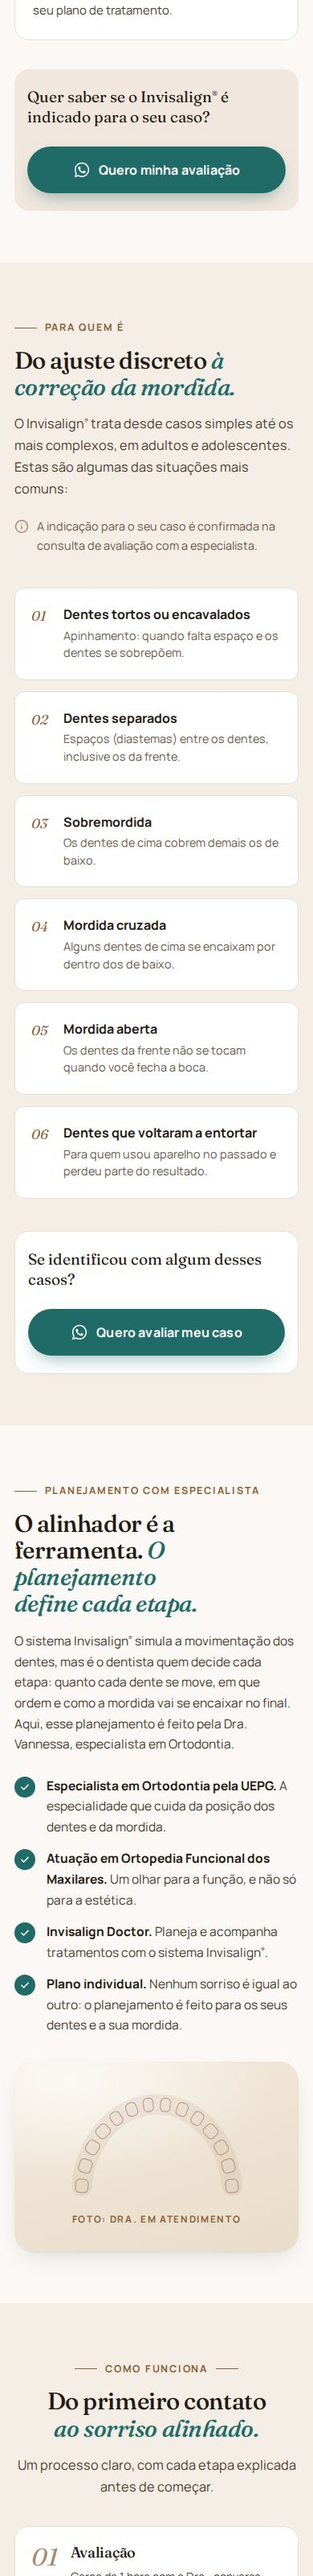
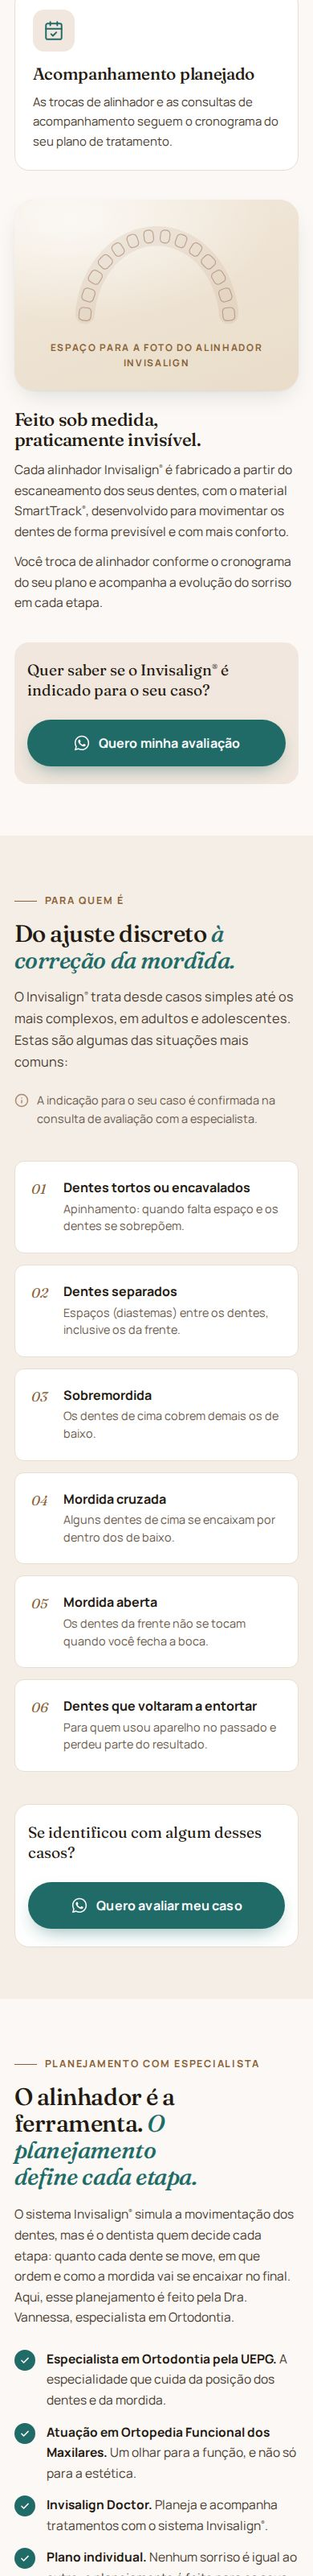
Reserve space for Invisalign Doctor seal and product photo
Claude-Session: https://claude.ai/code/session_01U1nEfuHnYZHZHo8qhsU69d

diff --git a/landing-invisalign-vannessa/index.html b/landing-invisalign-vannessa/index.html
@@ -36,6 +36,9 @@ window.LP_CONFIG = {
     heroDra: 'imagens/dra-vannessa-hero.jpg',       // foto principal (vertical 4:5, 1000x1250px)
     sobreDra: 'imagens/dra-vannessa-retrato.jpg',   // retrato para a seção "Quem é" (vertical 4:5)
     atendimento: '', // Dra. atendendo / mostrando o alinhador (horizontal 3:2)
+    // Material oficial da Align (baixar no Invisalign Doctor Site > área de marketing):
+    seloInvisalign: '',   // selo "Invisalign Doctor" em PNG sem fundo (aparece no topo e na seção "Quem é")
+    produtoInvisalign: '', // foto do alinhador Invisalign (horizontal 3:2, aparece na seção "Por que Invisalign")
     clinica: [       // fotos da clínica (horizontal 3:2). Apague ou acrescente linhas.
       // 'https://static.wixstatic.com/media/...jpg',
     ]
@@ -432,6 +435,20 @@ window.LP_CONFIG = {
   .indic .inline-cta{grid-column:1/-1;margin-top:8px}
   .about .hero-ctas{margin-top:30px}
 
+  /* ---------- Selo Invisalign Doctor e foto do produto ---------- */
+  .selo{display:flex;align-items:center;gap:14px;margin-top:26px}
+  .selo .selo-img{width:150px;height:64px;flex:none;display:grid;place-items:center;border-radius:10px;
+    border:1.5px dashed var(--accent);color:var(--accent-ink);font-size:.62rem;font-weight:700;letter-spacing:.12em;text-transform:uppercase;text-align:center;padding:6px}
+  .selo .selo-img img{max-width:100%;max-height:100%;object-fit:contain;display:block}
+  .selo .selo-img.pronto{border:0;padding:0}
+  .selo span{font-size:.84rem;color:var(--muted);max-width:260px;line-height:1.45}
+  .produto{display:grid;grid-template-columns:1fr 1fr;gap:clamp(24px,4vw,56px);align-items:center;margin-top:clamp(36px,5vw,56px)}
+  .produto .frame{aspect-ratio:3/2;border-radius:24px}
+  .produto h3{font-size:clamp(1.4rem,2.4vw,1.9rem)}
+  .produto p{margin-top:12px;color:var(--ink-soft)}
+  @media (max-width:900px){.produto{grid-template-columns:1fr}.produto .frame{max-width:560px}}
+  @media (max-width:640px){.selo{flex-direction:column;align-items:flex-start}}
+
   /* ---------- Botão flutuante ---------- */
   .wa-float{
     position:fixed;right:18px;bottom:18px;z-index:50;width:60px;height:60px;border-radius:50%;
@@ -599,6 +616,10 @@ window.LP_CONFIG = {
         <li><svg aria-hidden="true"><use href="#i-check"/></svg>Invisalign Doctor</li>
         <li><svg aria-hidden="true"><use href="#i-check"/></svg>Planejamento digital 3D</li>
       </ul>
+      <div class="selo">
+        <div class="selo-img" data-selo>Espaço para o selo Invisalign Doctor</div>
+        <span>A Dra. Vannessa é Invisalign Doctor, habilitada a planejar e conduzir tratamentos com Invisalign<sup>®</sup>.</span>
+      </div>
     </div>
 
     <div class="hero-media reveal">
@@ -666,6 +687,16 @@ window.LP_CONFIG = {
         <h3>Acompanhamento planejado</h3>
         <p>As trocas de alinhador e as consultas de acompanhamento seguem o cronograma do seu plano de tratamento.</p>
       </article>
+    </div>
+    <div class="produto">
+      <div class="frame reveal" data-foto="produtoInvisalign" data-alt="Alinhador Invisalign">
+        <div class="ph"><svg viewBox="0 0 400 260" aria-hidden="true"><use href="#i-arch"/></svg><small>Espaço para a foto do alinhador Invisalign</small></div>
+      </div>
+      <div class="reveal">
+        <h3>Feito sob medida, praticamente invisível.</h3>
+        <p>Cada alinhador Invisalign<sup>®</sup> é fabricado a partir do escaneamento dos seus dentes, com o material SmartTrack<sup>®</sup>, desenvolvido para movimentar os dentes de forma previsível e com mais conforto.</p>
+        <p>Você troca de alinhador conforme o cronograma do seu plano e acompanha a evolução do sorriso em cada etapa.</p>
+      </div>
     </div>
     <div class="inline-cta reveal">
       <p>Quer saber se o Invisalign<sup>®</sup> é indicado para o seu caso?</p>
@@ -815,6 +846,10 @@ window.LP_CONFIG = {
         <div class="fact"><small>Especialização</small><b>Ortodontia · UEPG</b></div>
         <div class="fact"><small>Área de atuação</small><b>Ortopedia Funcional dos Maxilares</b></div>
         <div class="fact"><small>Alinhadores</small><b>Invisalign Doctor</b></div>
+      </div>
+      <div class="selo">
+        <div class="selo-img" data-selo>Espaço para o selo Invisalign Doctor</div>
+        <span>Selo oficial de Invisalign Doctor, fornecido pela Align Technology.</span>
       </div>
       <div class="hero-ctas">
         <a class="btn btn-primary" data-wa="dra" href="https://wa.me/554130726994?text=Ol%C3%A1%20Tenho%20interesse%20em%20saber%20mais%20sobre%20Invisalign.%20*N%C3%83O%20APAGUE%20ESSA%20MENSAGEM%20VOC%C3%8A%20TEM%20PREFER%C3%8ANCIA*" target="_blank" rel="noopener">
@@ -983,7 +1018,7 @@ window.LP_CONFIG = {
       </div>
     </div>
     <hr>
-    <p class="tm">Invisalign<sup>®</sup>, ClinCheck<sup>®</sup> e os respectivos logotipos são marcas registradas da Align Technology, Inc. As informações desta página têm caráter informativo e não substituem a consulta com um profissional. A indicação e a duração do tratamento dependem da avaliação clínica individual.</p>
+    <p class="tm">Invisalign<sup>®</sup>, ClinCheck<sup>®</sup>, SmartTrack<sup>®</sup> e os respectivos logotipos são marcas registradas da Align Technology, Inc. As informações desta página têm caráter informativo e não substituem a consulta com um profissional. A indicação e a duração do tratamento dependem da avaliação clínica individual.</p>
   </div>
 </footer>
 
@@ -1067,6 +1102,14 @@ window.LP_CONFIG = {
       frame.innerHTML = '';
       frame.appendChild(img);
     });
+
+    // Selo Invisalign Doctor
+    if (hasUrl(fotos.seloInvisalign)) {
+      document.querySelectorAll('[data-selo]').forEach(function (el) {
+        el.innerHTML = '<img src="' + esc(fotos.seloInvisalign) + '" alt="Selo Invisalign Doctor" loading="lazy">';
+        el.classList.add('pronto');
+      });
+    }
 
     // Galeria da clínica
     var gal = lista(fotos.clinica).filter(hasUrl);
